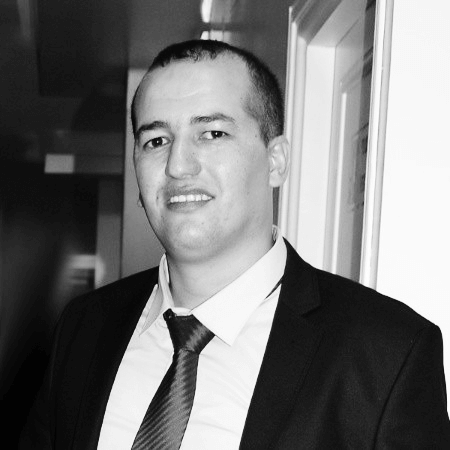
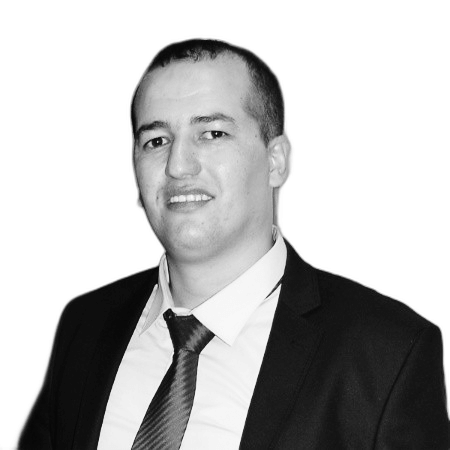
picture change & bord member css change

diff --git a/css/style.css b/css/style.css
@@ -31,8 +31,8 @@ main p {
 
 .board_member img {
   /* max-width: 100px;*/
-  max-height: 100px;
-  border-radius: 33%;
+  max-height: 90px;
+  border-radius: 50%;
 }
 
 footer {
